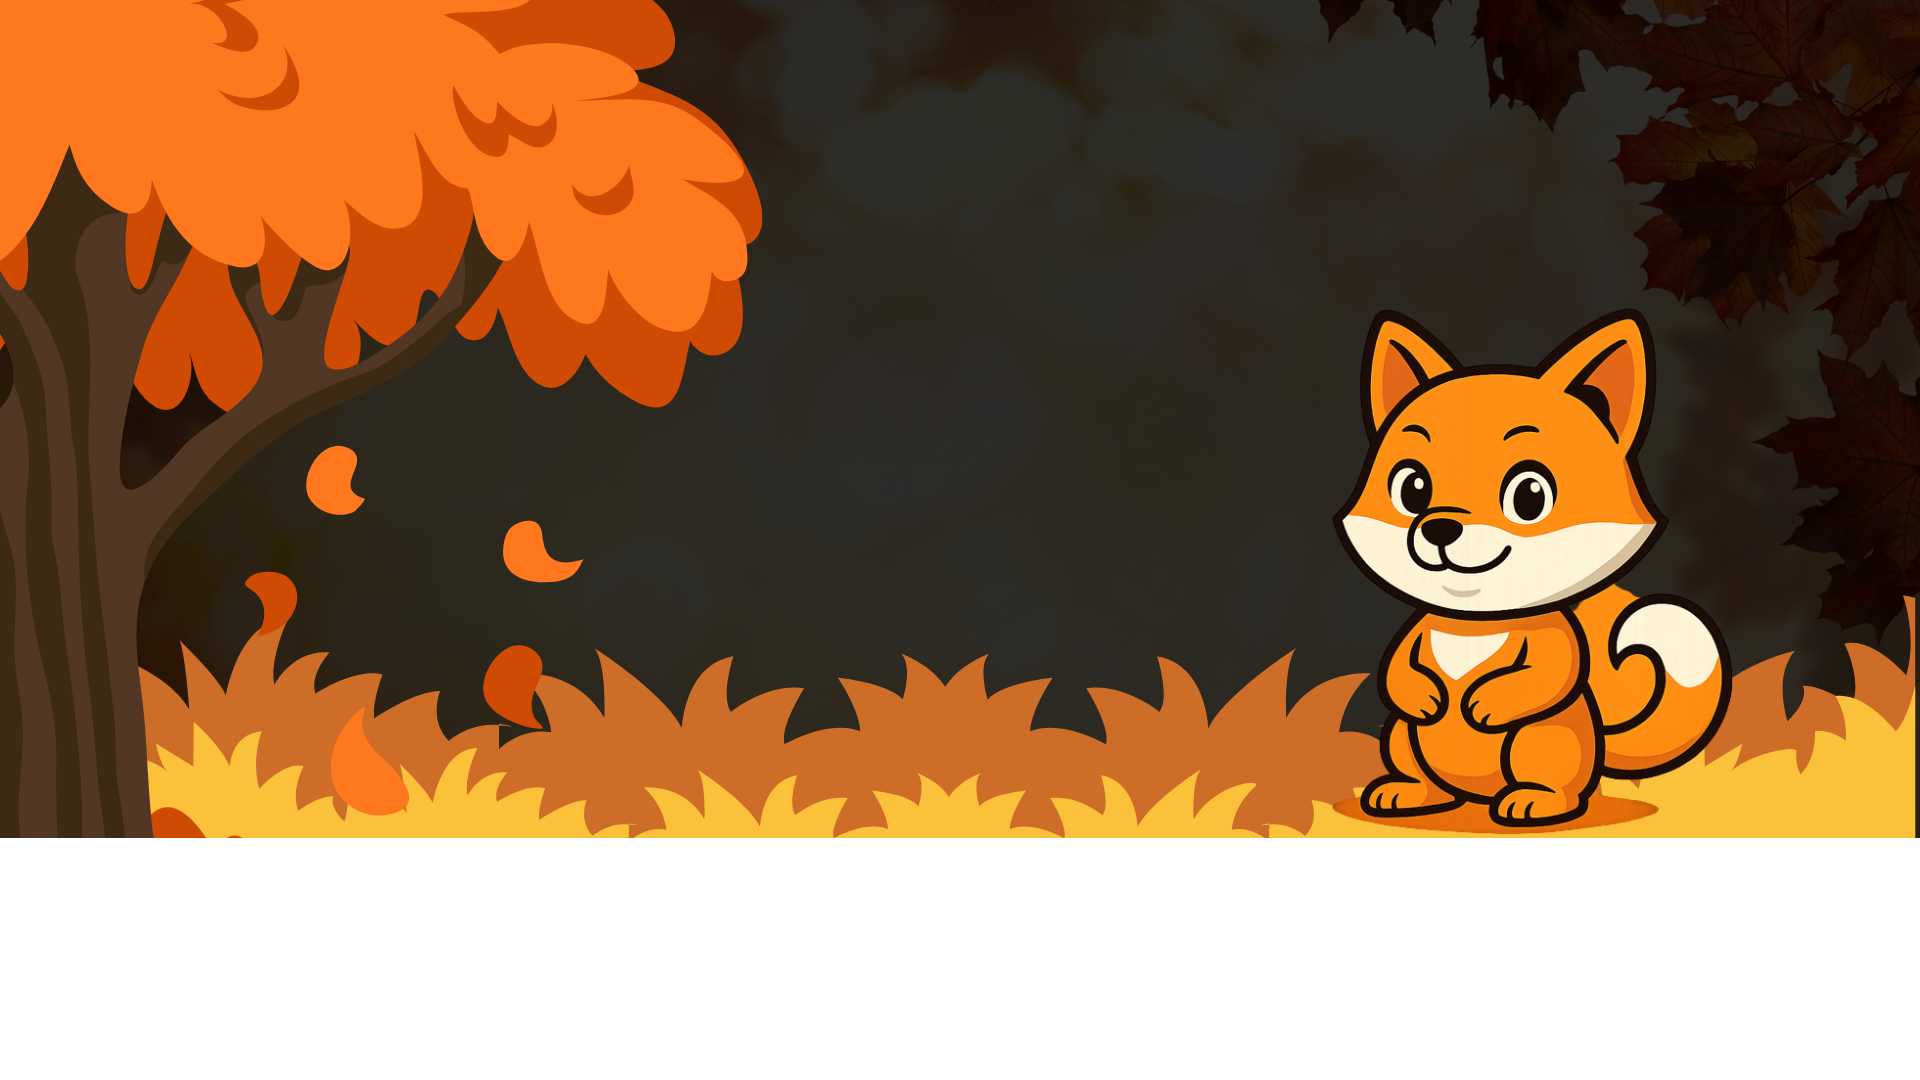
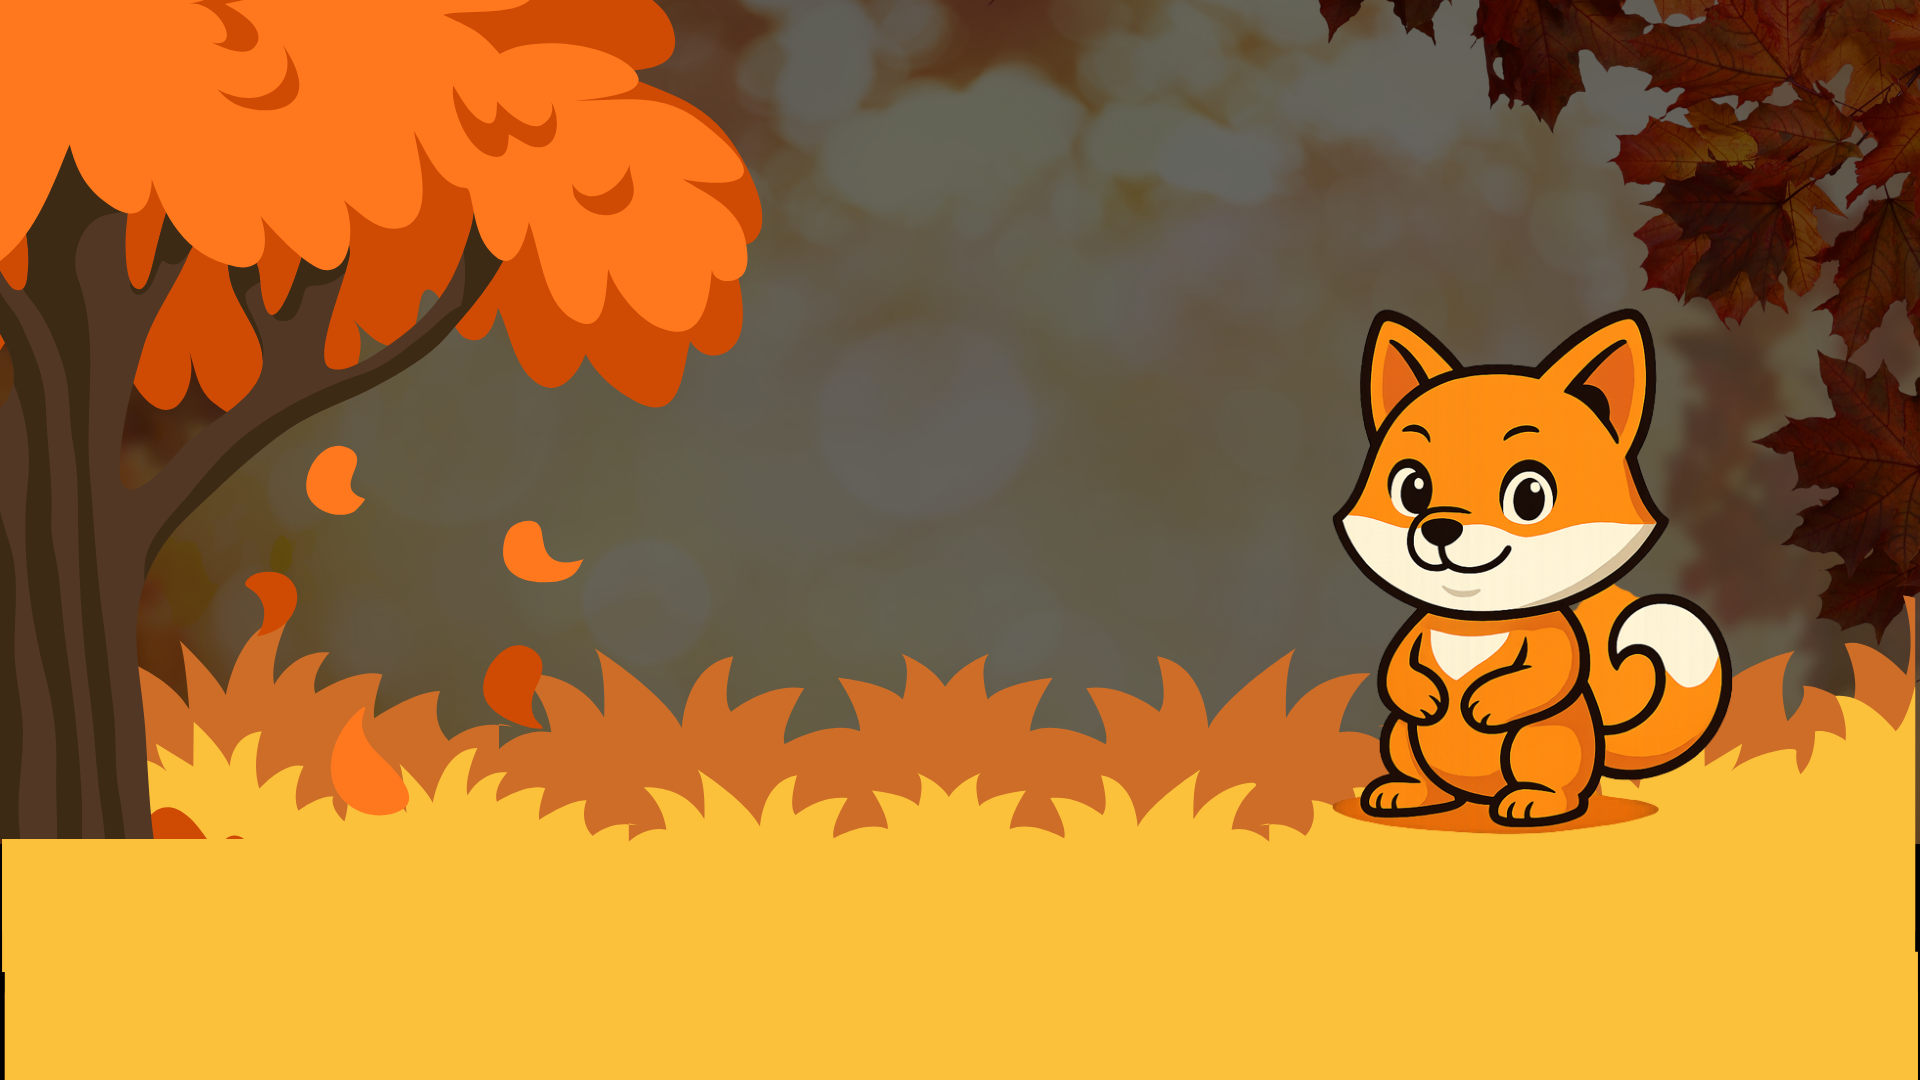
Image update

diff --git a/styles.css b/styles.css
@@ -85,7 +85,6 @@ a {
   display: none;
 }
 
-/* Social icons – desktop */
 .nav-socials {
   display: flex;
   gap: 0.8rem;
@@ -122,7 +121,7 @@ a {
   align-items: center;
   text-align: center;
   padding: 6rem 1rem 7rem;
-  overflow: hidden;
+  overflow: hidden; /* ensures sparks don't create extra height */
   background: linear-gradient(rgba(0,0,0,0.45), rgba(0,0,0,0.45)), url('assets/bg.png') center/cover no-repeat;
 }
 
@@ -142,16 +141,15 @@ a {
   align-items: center;
 }
 
-/* Glow text */
 .glow-text {
   font-size: 3.8rem;
-  color: #ffffff; 
+  color: #ffffff;
   position: relative;
 }
 
 .glow-text span {
   display: inline-block;
-  animation: slowGlow 6s ease-in-out infinite;
+  animation: slowGlow 6s ease-in-out infinite, floatLetters 3s ease-in-out infinite;
   color: #fff; 
   text-shadow:
     0 0 12px #ff7f00,
@@ -171,6 +169,11 @@ a {
       0 0 60px #ff7f00,
       0 0 80px #ffb347;
   }
+}
+
+@keyframes floatLetters {
+  0%, 100% { transform: translateY(0); }
+  50% { transform: translateY(-8px); }
 }
 
 .hero-sub {
@@ -229,16 +232,19 @@ a {
 /* ============================= */
 .hero-sparks {
   position: absolute;
-  inset: 0;
-  z-index: 5;
+  top: 0;
+  left: 0;
+  width: 100%;
+  height: 100%; /* now strictly inside hero */
   pointer-events: none;
   overflow: hidden;
+  z-index: 5;
 }
 
 .hero-spark {
   position: absolute;
-  width: 4px;
-  height: 4px;
+  width: 2px;
+  height: 2px;
   background: radial-gradient(circle, #ff7f00, #ffae42);
   border-radius: 50%;
   opacity: 0.8;
@@ -246,9 +252,9 @@ a {
 }
 
 @keyframes sparkMove {
-  0% { transform: translateY(0) scale(0.8); opacity: 0.6; }
-  50% { opacity: 1; }
-  100% { transform: translateY(-120px) scale(1.2); opacity: 0; }
+  0% { transform: translateY(0) scale(0.8); opacity: 0.7; }
+  50% { transform: translateY(-15px) scale(1.2); opacity: 1; }
+  100% { transform: translateY(0) scale(0.8); opacity: 0.7; }
 }
 
 /* ============================= */
@@ -285,7 +291,6 @@ a {
   grid-template-columns: repeat(auto-fit, minmax(220px, 1fr));
 }
 
-/* Glassmorphism card style with icon support */
 .info-card,
 .token-card,
 .utility-card {
@@ -304,7 +309,6 @@ a {
   position: relative;
 }
 
-/* Card titles and text */
 .info-card h3,
 .token-card h3,
 .utility-card h3 {
@@ -320,9 +324,8 @@ a {
   color: #ffffff;
 }
 
-/* Card icons */
 .card-icon {
-  font-size: 2rem; 
+  font-size: 2rem;
   margin-bottom: 1rem;
   color: #ff7f00;
   transition: transform 0.3s ease, filter 0.3s ease, color 0.3s ease;
@@ -336,7 +339,6 @@ a {
   color: #ffa64d;
 }
 
-/* Hover Effects */
 .info-card:hover,
 .token-card:hover,
 .utility-card:hover {
@@ -364,7 +366,7 @@ a {
   box-shadow: 0 8px 25px rgba(255, 127, 0, 0.2);
   text-align: left;
   transition: transform 0.3s ease, box-shadow 0.3s ease;
-  color: #ffffff; 
+  color: #ffffff;
   display: flex;
   align-items: center;
   gap: 1rem;
@@ -414,7 +416,7 @@ a {
 }
 
 /* ============================= */
-/*             FAQ               */
+/*           FAQ                 */
 /* ============================= */
 .faq-section {
   max-width: 800px;
@@ -555,10 +557,7 @@ a {
     padding: 5rem 1rem 8rem;
   }
 
-  .leaf {
-    width: 20px;
-    height: 40px;
-  }
+  .leaf { width: 20px; height: 40px; }
 }
 
 @media (max-width: 480px) {
@@ -568,10 +567,7 @@ a {
     padding: 5rem 1rem 9rem;
   }
 
-  .leaf {
-    width: 15px;
-    height: 30px;
-  }
+  .leaf { width: 15px; height: 30px; }
 }
 
 /* ============================= */
@@ -597,49 +593,7 @@ a {
 }
 
 /* ============================= */
-/*      HERO FLOATING ANIMS      */
-/* ============================= */
-@keyframes floatLetters {
-  0%, 100% { transform: translateY(0); }
-  50% { transform: translateY(-8px); }
-}
-
-.glow-text span {
-  display: inline-block;
-  animation: slowGlow 7s linear infinite, floatLetters 3s ease-in-out infinite;
-}
-
-.glow-text span:nth-child(odd) {
-  animation-delay: 0s, 0.1s; 
-}
-
-.glow-text span:nth-child(even) {
-  animation-delay: 0s, 0.3s;
-}
-
-.hero-sparks {
-  position: absolute;
-  inset: 0;
-  overflow: hidden;
-  z-index: 5;
-}
-
-.hero-spark {
-  position: absolute;
-  background: radial-gradient(circle, #ff7f00, #ffae42);
-  border-radius: 50%;
-  opacity: 0.8;
-  animation: sparkMove linear infinite;
-}
-
-@keyframes sparkMove {
-  0% { transform: translateY(0) scale(0.8); opacity: 0.7; }
-  50% { transform: translateY(-15px) scale(1.2); opacity: 1; }
-  100% { transform: translateY(0) scale(0.8); opacity: 0.7; }
-}
-
-/* ============================= */
-/*      Interactive Sparks       */
+/*      INTERACTIVE SPARKS       */
 /* ============================= */
 .spark {
   position: absolute;
@@ -665,14 +619,40 @@ a {
   }
 }
 
-/* Hero text letter pulse */
-.glow-text span {
-  display: inline-block;
-  animation: letterPulse 2s infinite alternate;
+@media (max-width: 768px) {
+  body {
+    background-attachment: scroll !important;
+    background-size: cover;
+    background-position: center;
+  }
 }
 
-@keyframes letterPulse {
-  0% { text-shadow: 0 0 12px #ff7f00, 0 0 25px #ffae42, 0 0 40px #ff7f00; transform: scale(1);}
-  50% { text-shadow: 0 0 20px #ff7f00, 0 0 35px #ffae42, 0 0 60px #ff7f00; transform: scale(1.05);}
-  100% { text-shadow: 0 0 12px #ff7f00, 0 0 25px #ffae42, 0 0 40px #ff7f00; transform: scale(1);}
+/* ============================= */
+/*        FULL-PAGE SPARKS       */
+/* ============================= */
+.page-sparks {
+  position: fixed;
+  top: 0;
+  left: 0;
+  width: 100%;
+  height: 100%;
+  pointer-events: none;
+  overflow: hidden;
+  z-index: 1;
+}
+
+.page-spark {
+  position: absolute;
+  width: 2px;
+  height: 2px;
+  background: radial-gradient(circle, #ff7f00, #ffae42);
+  border-radius: 50%;
+  opacity: 0.8;
+  animation: pageSparkMove linear infinite;
+}
+
+@keyframes pageSparkMove {
+  0% { transform: translateY(0) scale(0.8); opacity: 0.6; }
+  50% { transform: translateY(-20px) scale(1.2); opacity: 1; }
+  100% { transform: translateY(0) scale(0.8); opacity: 0.6; }
 }

diff --git a/index.html b/index.html
@@ -62,12 +62,11 @@
       </div>
     </div>
 
+  </header>
+  
     <!-- Floating Sparks -->
     <div class="hero-sparks">
-      <!-- JS will populate sparks dynamically -->
     </div>
-  </header>
-
   <!-- TOKEN OVERVIEW + TOKENOMICS -->
   <section id="tokenomics" class="section">
     <div class="container">
